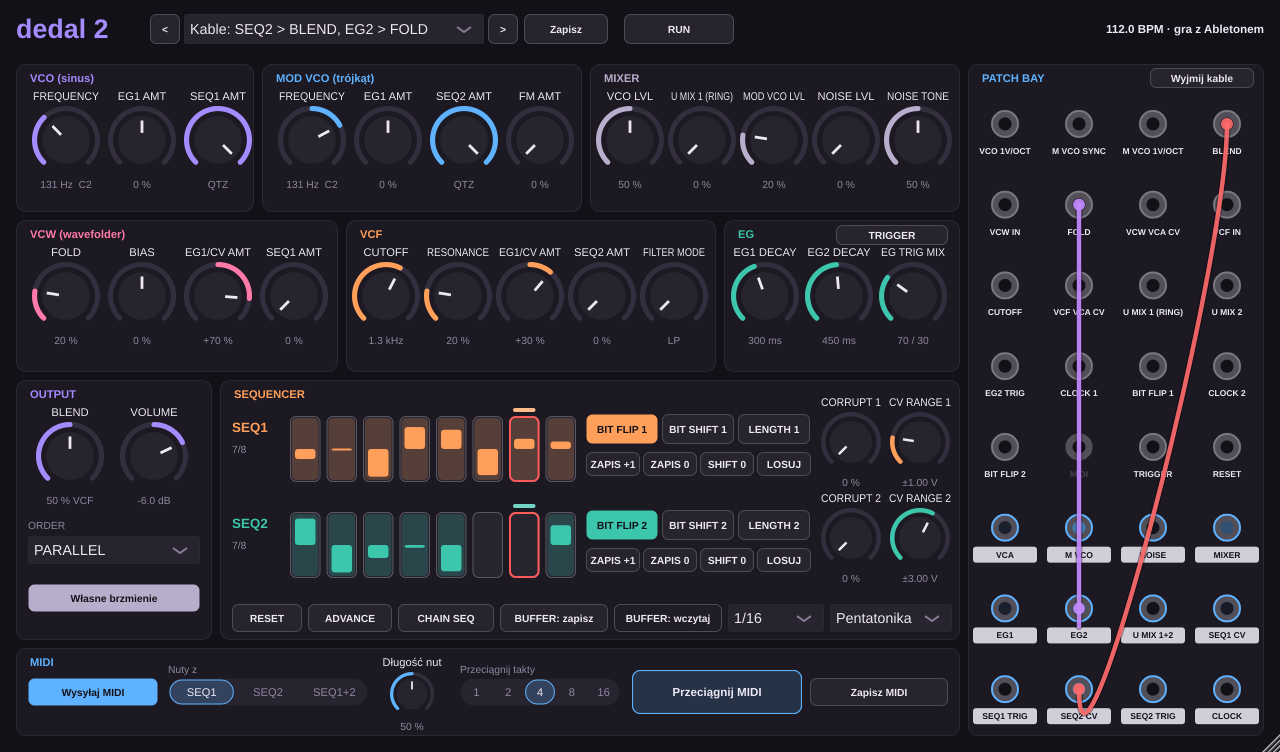
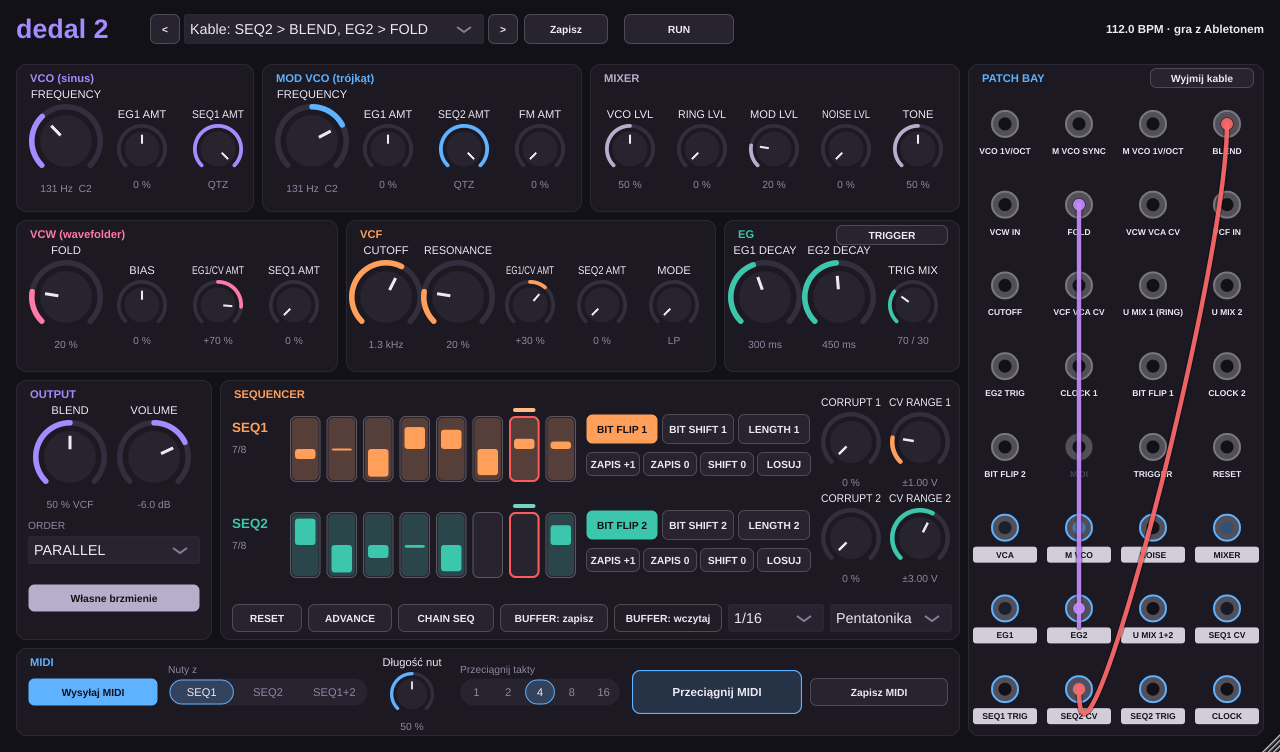
Dedal 2: size knobs by function
Main parameters keep the full-size knob; modulation amounts and mixer
levels get a smaller one, with shorter labels that fit.

Claude-Session: https://claude.ai/code/session_01LfsTAEofyVNCGcz3DLwdQ3

diff --git a/dedal2/src/Dedal2Editor.cpp b/dedal2/src/Dedal2Editor.cpp
@@ -323,10 +323,10 @@ public:
         knob (ID::modSeq2, "SEQ2 AMT", theme::accentLfo);
         knob (ID::fm, "FM AMT", theme::accentLfo);
         knob (ID::lvlVco, "VCO LVL", theme::accentVoice);
-        knob (ID::lvlRing, "U MIX 1 (RING)", theme::accentVoice);
-        knob (ID::lvlMod, "MOD VCO LVL", theme::accentVoice);
+        knob (ID::lvlRing, "RING LVL", theme::accentVoice);
+        knob (ID::lvlMod, "MOD LVL", theme::accentVoice);
         knob (ID::lvlNoise, "NOISE LVL", theme::accentVoice);
-        knob (ID::noiseTone, "NOISE TONE", theme::accentVoice);
+        knob (ID::noiseTone, "TONE", theme::accentVoice);
         knob (ID::fold, "FOLD", theme::accentFragment);
         knob (ID::bias, "BIAS", theme::accentFragment);
         knob (ID::foldEg, "EG1/CV AMT", theme::accentFragment);
@@ -335,10 +335,10 @@ public:
         knob (ID::resonance, "RESONANCE", theme::accentFilter);
         knob (ID::cutEg, "EG1/CV AMT", theme::accentFilter);
         knob (ID::cutSeq, "SEQ2 AMT", theme::accentFilter);
-        knob (ID::mode, "FILTER MODE", theme::accentFilter);
+        knob (ID::mode, "MODE", theme::accentFilter);
         knob (ID::eg1Decay, "EG1 DECAY", theme::accentB);
         knob (ID::eg2Decay, "EG2 DECAY", theme::accentB);
-        knob (ID::trigMix, "EG TRIG MIX", theme::accentB);
+        knob (ID::trigMix, "TRIG MIX", theme::accentB);
         knob (ID::blend, "BLEND", theme::accentA);
         knob (ID::volume, "VOLUME", theme::accentA);
         knob (ID::gate, pl ("Długość nut"), theme::accentLfo);
@@ -401,9 +401,18 @@ public:
 
         auto row = [this] (int x, int y, std::initializer_list<const char*> ids, int width)
         {
+            // Main parameters get the full-size knob; modulation amounts and mixer levels a smaller one.
+            static const juce::StringArray small { ID::vcoEg1, ID::vcoSeq1, ID::modEg1, ID::modSeq2, ID::fm, ID::lvlVco, ID::lvlRing,
+                                                   ID::lvlMod, ID::lvlNoise, ID::noiseTone, ID::bias, ID::foldEg, ID::foldSeq,
+                                                   ID::cutEg, ID::cutSeq, ID::mode, ID::trigMix };
+
             for (const auto* id : ids)
             {
-                place (id, x, y, width, 104);
+                if (small.contains (id))
+                    place (id, x + 7, y + 18, width - 14, 86);
+                else
+                    place (id, x - 3, y - 2, width + 6, 110);
+
                 x += width;
             }
         };
